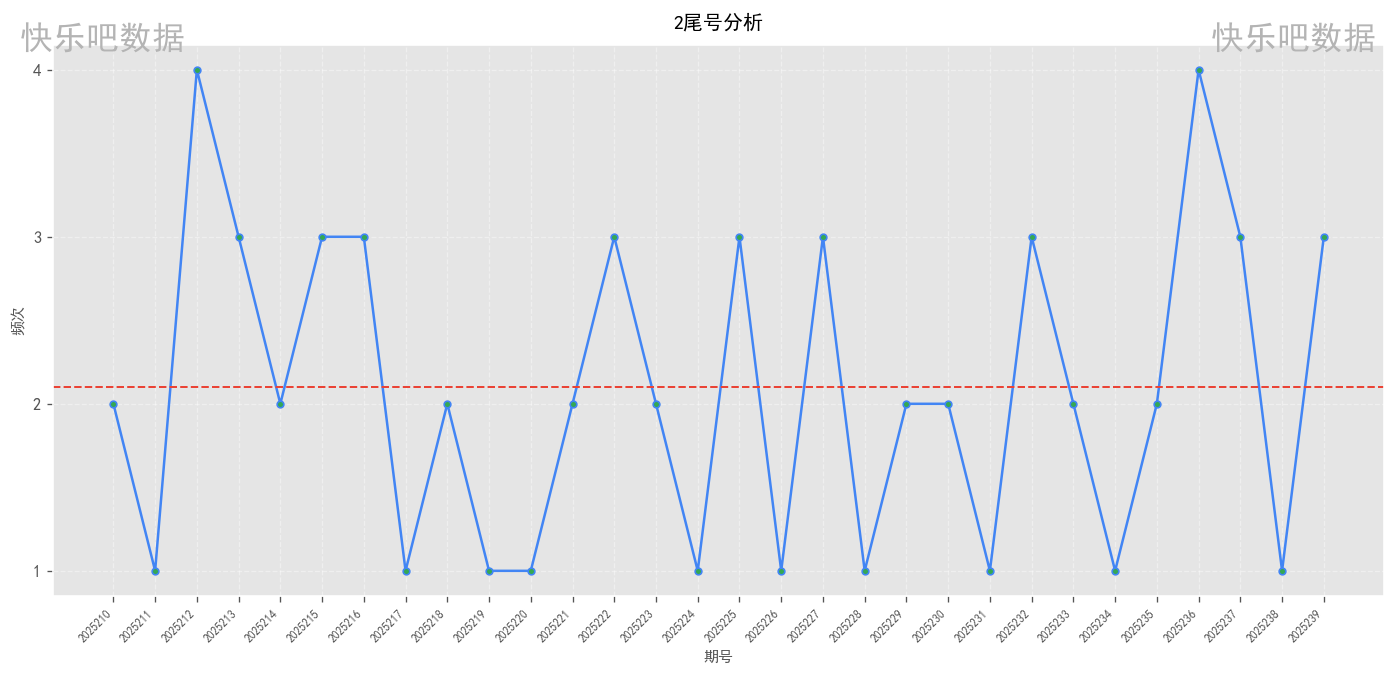
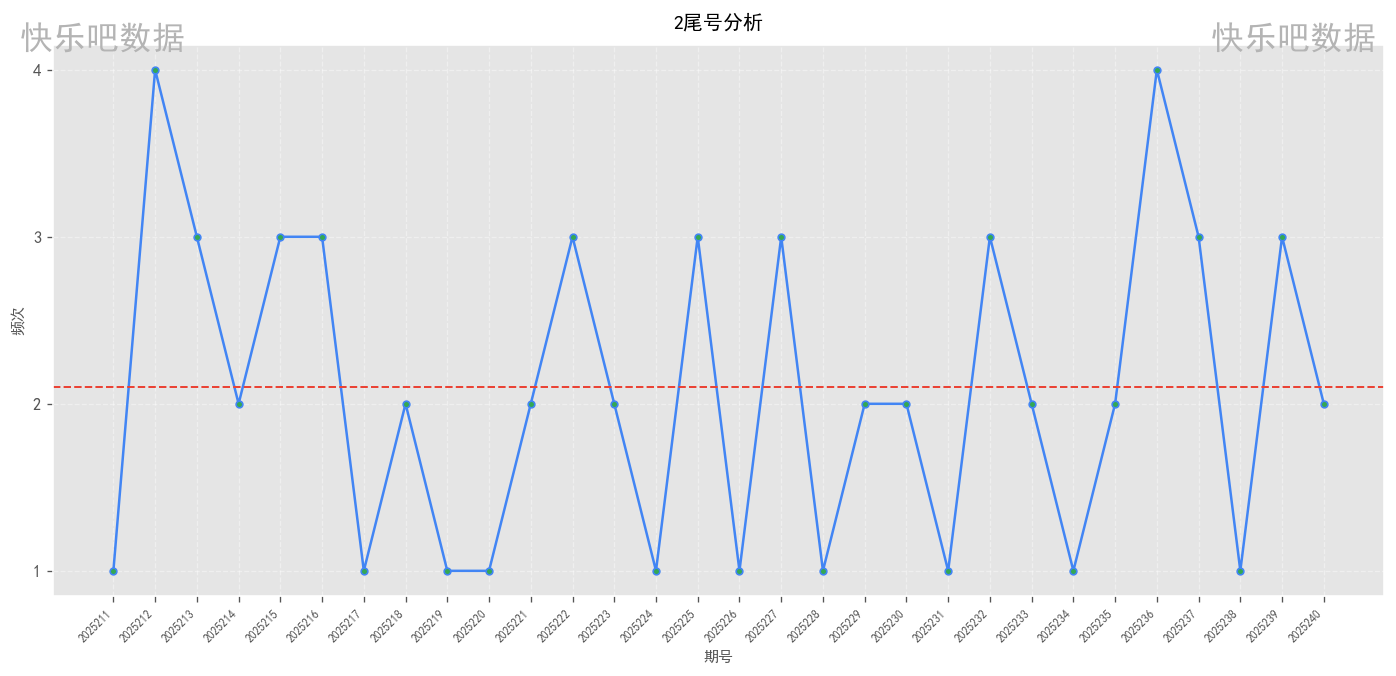
自动提交报告 20250907_2221

diff --git a/快乐8尾号分析项目/数据报告/20250907/report.html b/快乐8尾号分析项目/数据报告/20250907/report.html
@@ -440,7 +440,7 @@
                     <div class="label">尾号区间</div>
                 </div>
                 <div class="overview-card">
-                    <div class="value">2025239</div>
+                    <div class="value">2025240</div>
                     <div class="label">最新期号</div>
                 </div>
                 <div class="overview-card">
@@ -464,11 +464,11 @@
             <div class="stats-summary">
                 <div class="stat-item">
                     <span class="stat-label">历史平均</span>
-                    <span class="stat-value">2.23</span>
+                    <span class="stat-value">2.17</span>
                 </div>
                 <div class="stat-item">
                     <span class="stat-label">近期平均</span>
-                    <span class="stat-value">1.40</span>
+                    <span class="stat-value">1.20</span>
                 </div>
                 <div class="stat-item">
                     <span class="stat-label">最高频次</span>
@@ -486,11 +486,11 @@
             <div class="stats-summary">
                 <div class="stat-item">
                     <span class="stat-label">历史平均</span>
-                    <span class="stat-value">1.80</span>
+                    <span class="stat-value">1.87</span>
                 </div>
                 <div class="stat-item">
                     <span class="stat-label">近期平均</span>
-                    <span class="stat-value">2.00</span>
+                    <span class="stat-value">2.40</span>
                 </div>
                 <div class="stat-item">
                     <span class="stat-label">最高频次</span>
@@ -534,7 +534,7 @@
                 </div>
                 <div class="stat-item">
                     <span class="stat-label">近期平均</span>
-                    <span class="stat-value">2.40</span>
+                    <span class="stat-value">1.60</span>
                 </div>
                 <div class="stat-item">
                     <span class="stat-label">最高频次</span>
@@ -552,15 +552,15 @@
             <div class="stats-summary">
                 <div class="stat-item">
                     <span class="stat-label">历史平均</span>
-                    <span class="stat-value">1.67</span>
+                    <span class="stat-value">1.57</span>
                 </div>
                 <div class="stat-item">
                     <span class="stat-label">近期平均</span>
-                    <span class="stat-value">1.60</span>
+                    <span class="stat-value">1.40</span>
                 </div>
                 <div class="stat-item">
                     <span class="stat-label">最高频次</span>
-                    <span class="stat-value">4</span>
+                    <span class="stat-value">3</span>
                 </div>
             </div>
         </div>
@@ -574,11 +574,11 @@
             <div class="stats-summary">
                 <div class="stat-item">
                     <span class="stat-label">历史平均</span>
-                    <span class="stat-value">2.10</span>
+                    <span class="stat-value">2.17</span>
                 </div>
                 <div class="stat-item">
                     <span class="stat-label">近期平均</span>
-                    <span class="stat-value">2.00</span>
+                    <span class="stat-value">2.80</span>
                 </div>
                 <div class="stat-item">
                     <span class="stat-label">最高频次</span>
@@ -596,7 +596,7 @@
             <div class="stats-summary">
                 <div class="stat-item">
                     <span class="stat-label">历史平均</span>
-                    <span class="stat-value">2.47</span>
+                    <span class="stat-value">2.43</span>
                 </div>
                 <div class="stat-item">
                     <span class="stat-label">近期平均</span>
@@ -618,7 +618,7 @@
             <div class="stats-summary">
                 <div class="stat-item">
                     <span class="stat-label">历史平均</span>
-                    <span class="stat-value">1.97</span>
+                    <span class="stat-value">1.93</span>
                 </div>
                 <div class="stat-item">
                     <span class="stat-label">近期平均</span>
@@ -662,7 +662,7 @@
             <div class="stats-summary">
                 <div class="stat-item">
                     <span class="stat-label">历史平均</span>
-                    <span class="stat-value">2.00</span>
+                    <span class="stat-value">2.10</span>
                 </div>
                 <div class="stat-item">
                     <span class="stat-label">近期平均</span>
@@ -690,7 +690,7 @@
         <div class="disclaimer">
             <div class="disclaimer-title"><i class="fas fa-exclamation-circle"></i> 法律声明</div>
             <p>本分析报告基于中国福利彩票官网公开数据制作，仅供历史数据分析与参考，严禁用于赌博或任何违法违规用途。</p>
-            <p>根据中国法律，禁止向未成年人传播彩票相关信息。数据统计周期: 2025210期-2025239期 | 生成时间: 2025-09-07 11:10</p>
+            <p>根据中国法律，禁止向未成年人传播彩票相关信息。数据统计周期: 2025211期-2025240期 | 生成时间: 2025-09-07 22:21</p>
         </div>
 
         <!-- 操作按钮 -->
